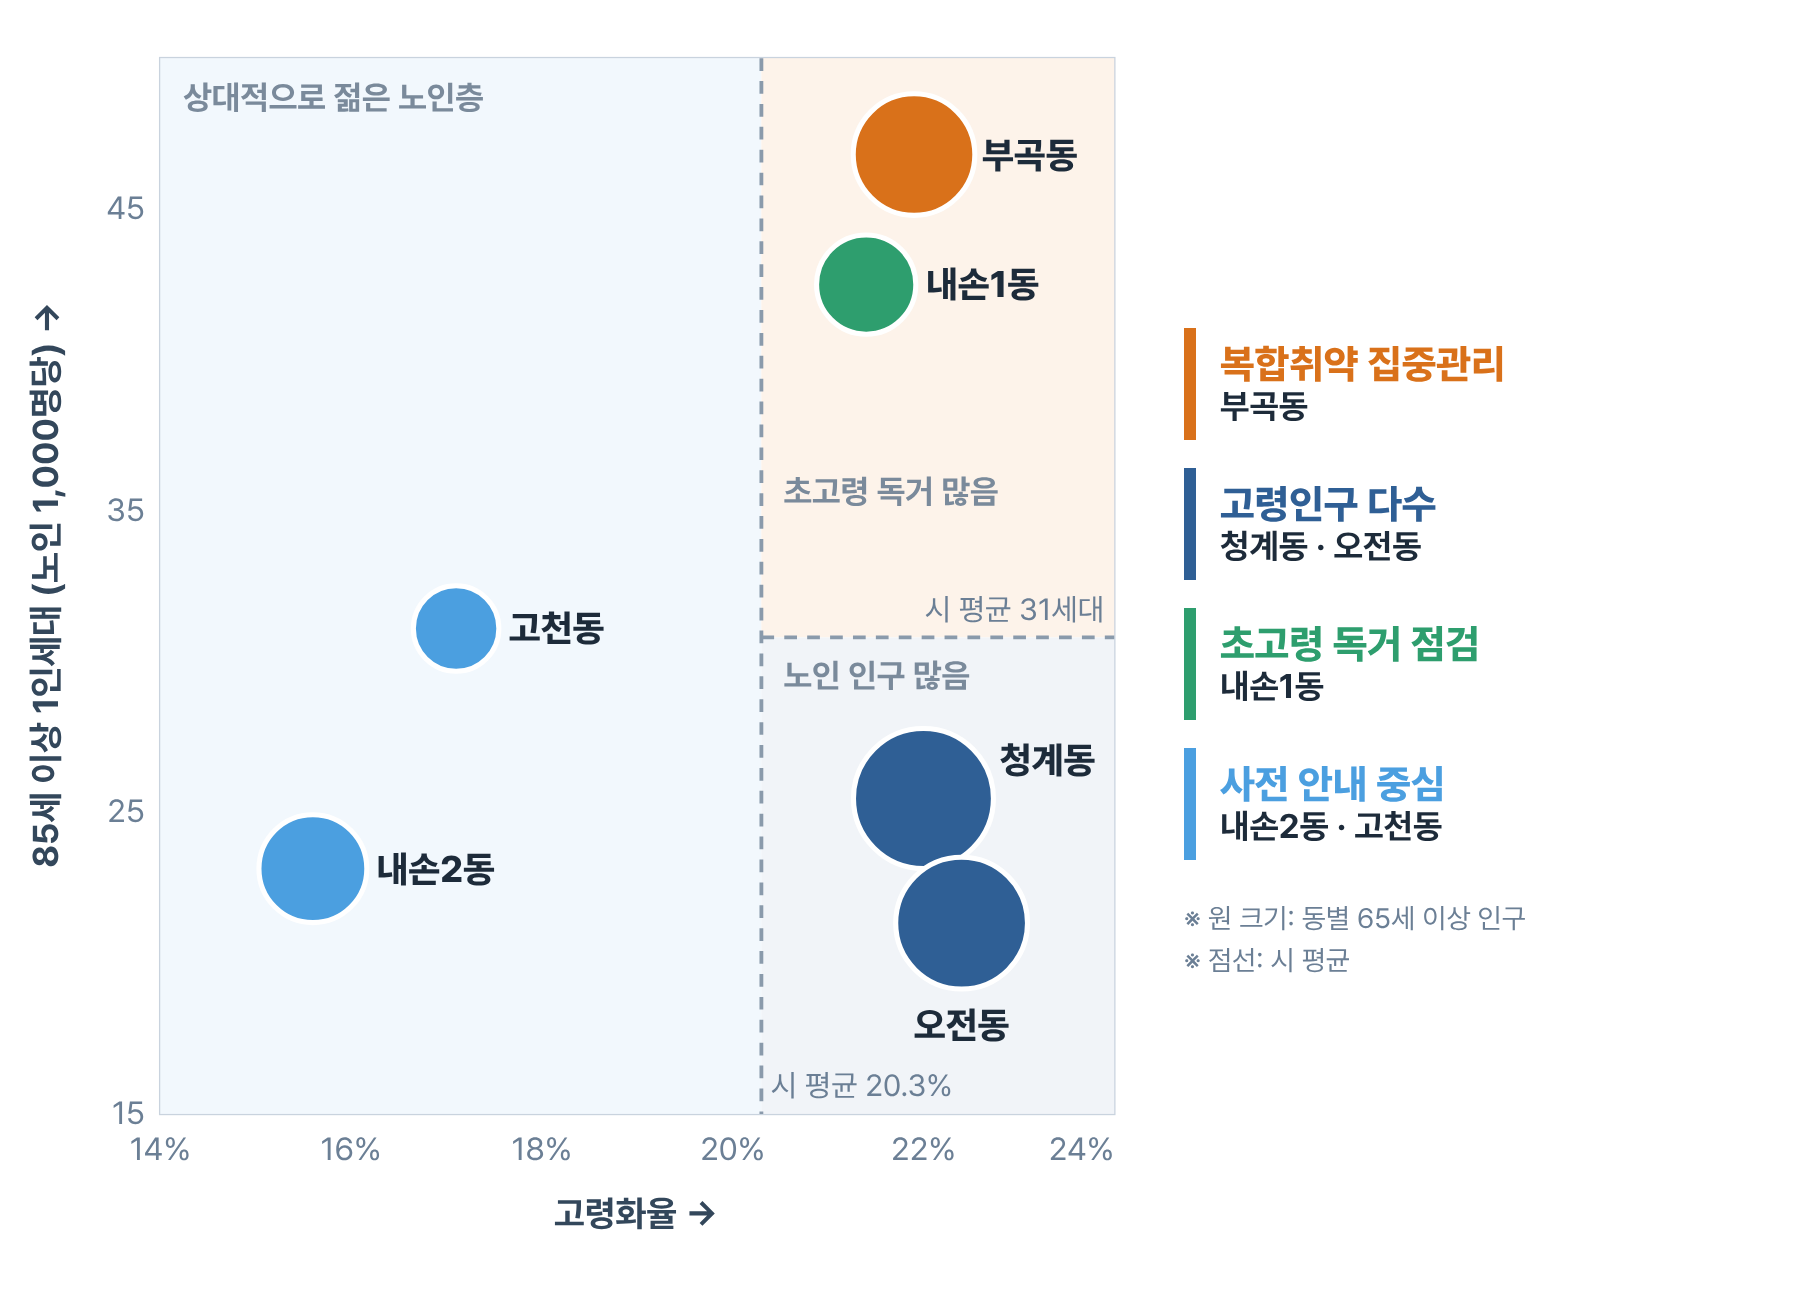
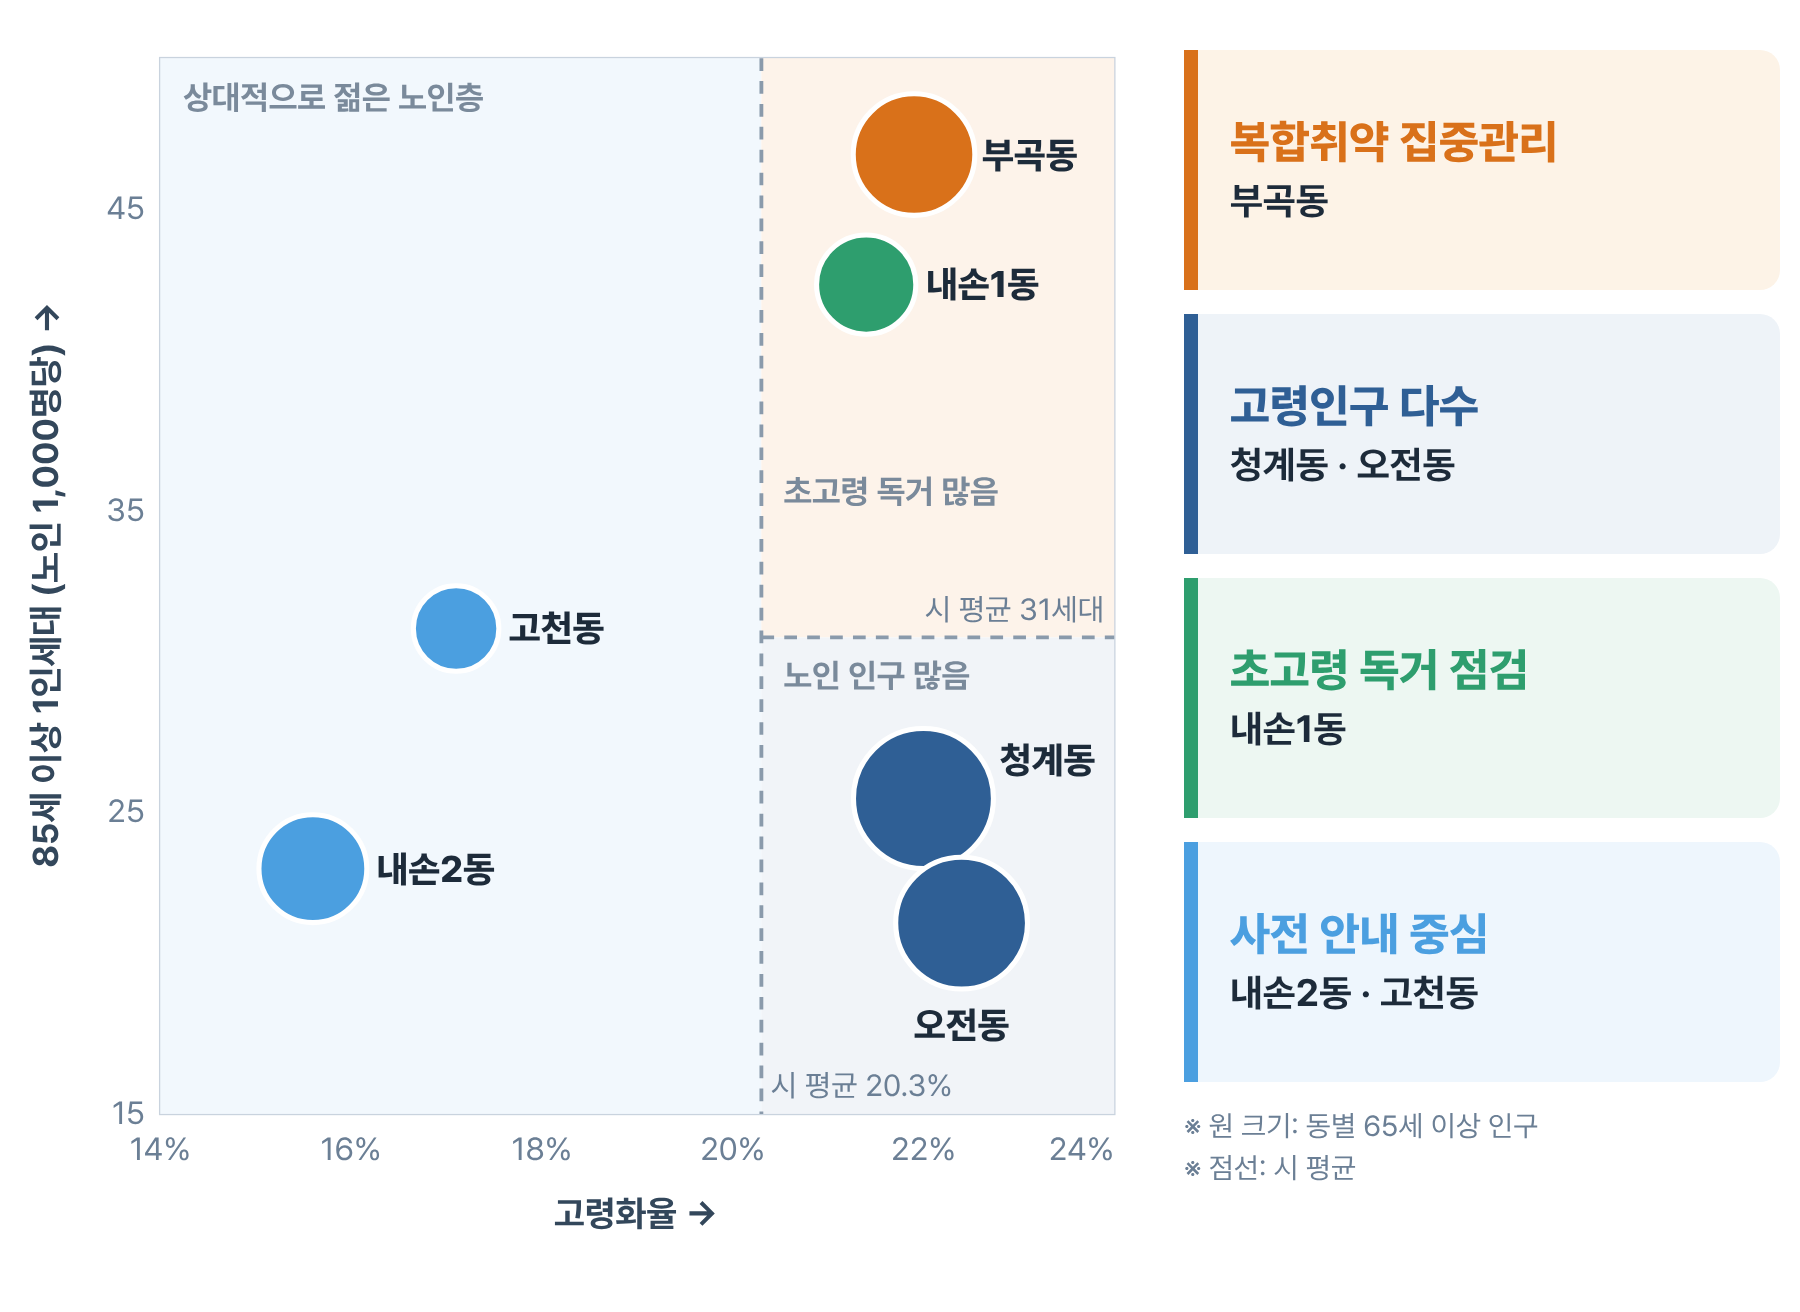
분포도 범례를 그래프 높이에 맞춰 채움
Claude-Session: https://claude.ai/code/session_01Rws36rz6FMs9qvhqTvH8uK

Changed region(s): [[0.6533, 0.4688, 0.8711, 0.8125], [0.6533, 0.0312, 0.8711, 0.4688], [0.6533, 0.8438, 0.84, 0.9062]]

diff --git a/docs/uiwang-2027-plan/figures/src/dong_map.html b/docs/uiwang-2027-plan/figures/src/dong_map.html
@@ -2,12 +2,12 @@
 *{box-sizing:border-box;margin:0;padding:0}
 body{word-break:keep-all;font-family:'Pretendard',sans-serif;color:#1d2b3a;background:#fff;padding:10px;width:900px}
 svg text{font-family:'Pretendard',sans-serif}
-.wrap{display:grid;grid-template-columns:560px 1fr;gap:22px;align-items:center}
-.lg{display:flex;flex-direction:column;gap:14px}
-.it{border-left:6px solid var(--c);padding:6px 0 6px 12px}
-.it b{display:block;font-size:20px;font-weight:800;color:var(--c)}
-.it span{font-size:17px;font-weight:700}
-.note{font-size:14px;color:#6b7f95;line-height:1.5;margin-top:6px}
+.wrap{display:grid;grid-template-columns:560px 1fr;gap:22px;align-items:stretch}
+.lg{display:flex;flex-direction:column;gap:12px;padding:15px 0 50px}
+.it{flex:1;border-left:7px solid var(--c);background:var(--bg);border-radius:0 10px 10px 0;padding:0 16px;display:flex;flex-direction:column;justify-content:center}
+.it b{display:block;font-size:23px;font-weight:800;color:var(--c)}
+.it span{font-size:19px;font-weight:700;margin-top:4px}
+.note{font-size:14.5px;color:#6b7f95;line-height:1.5}
 </style></head><body><div class="wrap"><svg viewBox="0 0 440 500" width="560" height="636">
   <rect x="55" y="15" width="375" height="415" fill="#fff" stroke="#c9d3de"/>
   <rect x="55" y="15" width="236.3" height="415" fill="#f2f8fd"/>
@@ -49,9 +49,9 @@ svg text{font-family:'Pretendard',sans-serif}
 </svg>
 
 <div class="lg">
-<div class="it" style="--c:#d9711a"><b>복합취약 집중관리</b><span>부곡동</span></div>
-<div class="it" style="--c:#2f5f95"><b>고령인구 다수</b><span>청계동 · 오전동</span></div>
-<div class="it" style="--c:#2e9e6e"><b>초고령 독거 점검</b><span>내손1동</span></div>
-<div class="it" style="--c:#4b9fe0"><b>사전 안내 중심</b><span>내손2동 · 고천동</span></div>
+<div class="it" style="--c:#d9711a;--bg:#fdf3e7"><b>복합취약 집중관리</b><span>부곡동</span></div>
+<div class="it" style="--c:#2f5f95;--bg:#eef3f8"><b>고령인구 다수</b><span>청계동 · 오전동</span></div>
+<div class="it" style="--c:#2e9e6e;--bg:#edf7f2"><b>초고령 독거 점검</b><span>내손1동</span></div>
+<div class="it" style="--c:#4b9fe0;--bg:#eef6fd"><b>사전 안내 중심</b><span>내손2동 · 고천동</span></div>
 <div class="note">※ 원 크기: 동별 65세 이상 인구<br>※ 점선: 시 평균</div>
 </div></div></body></html>
